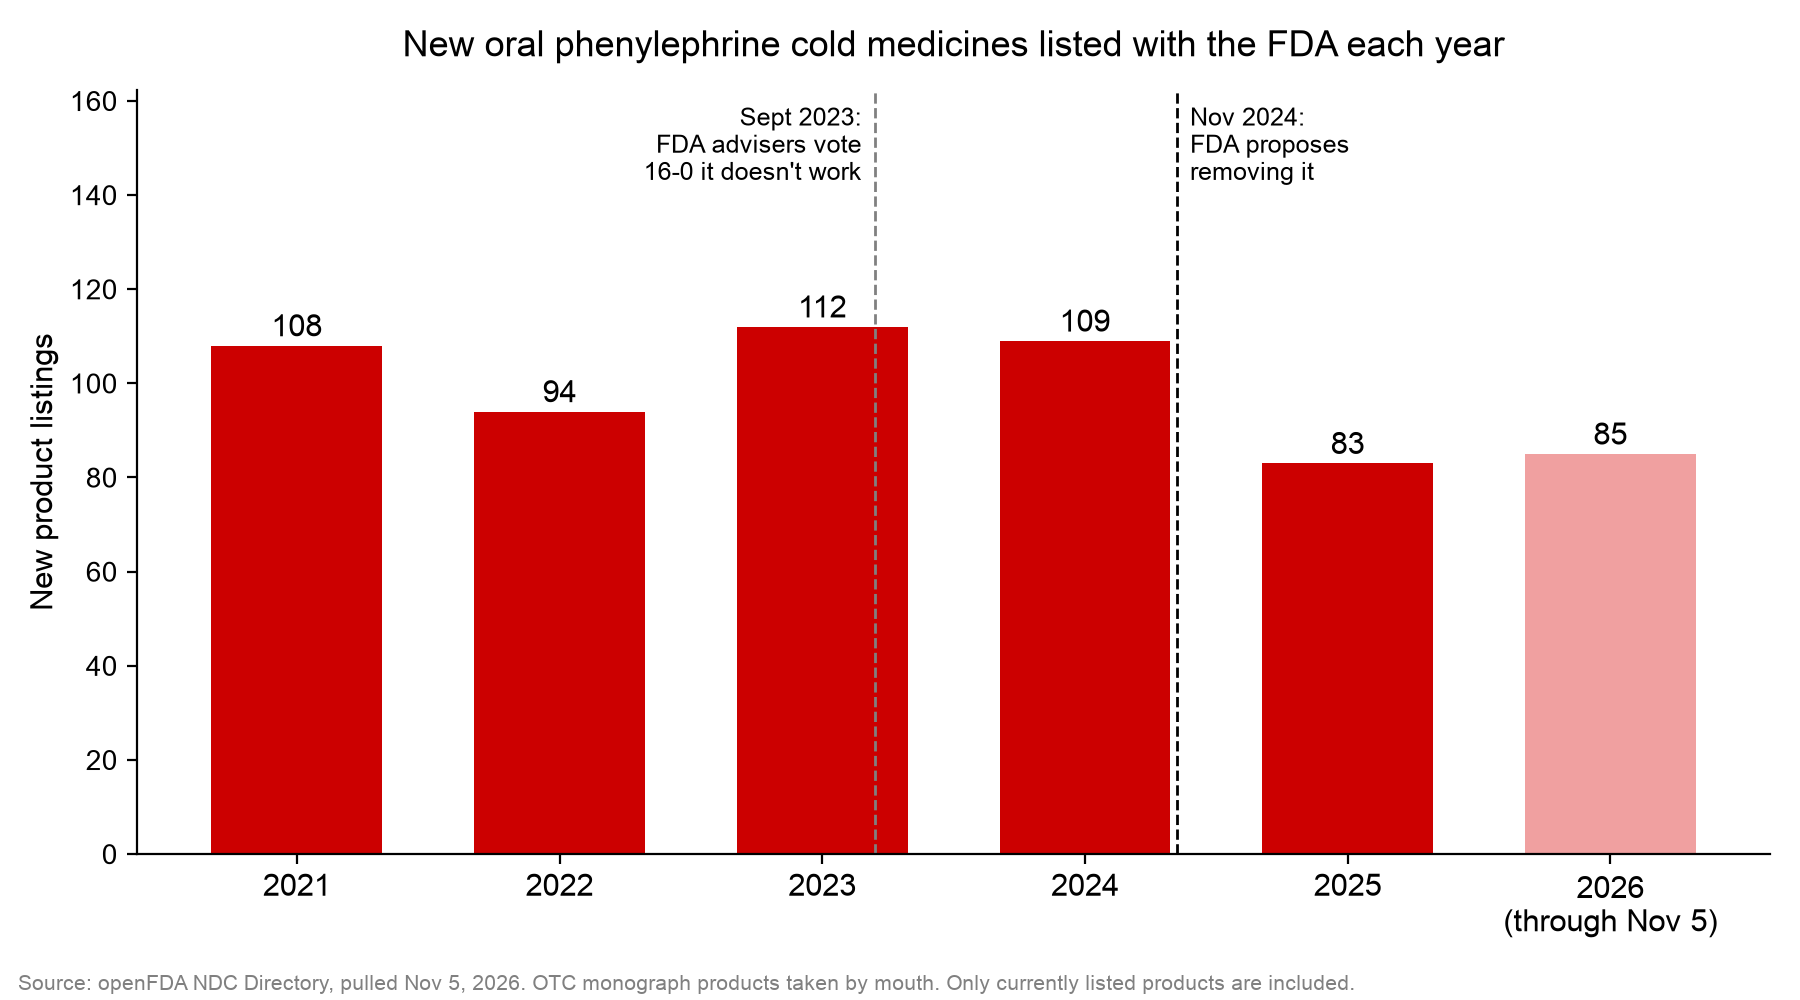
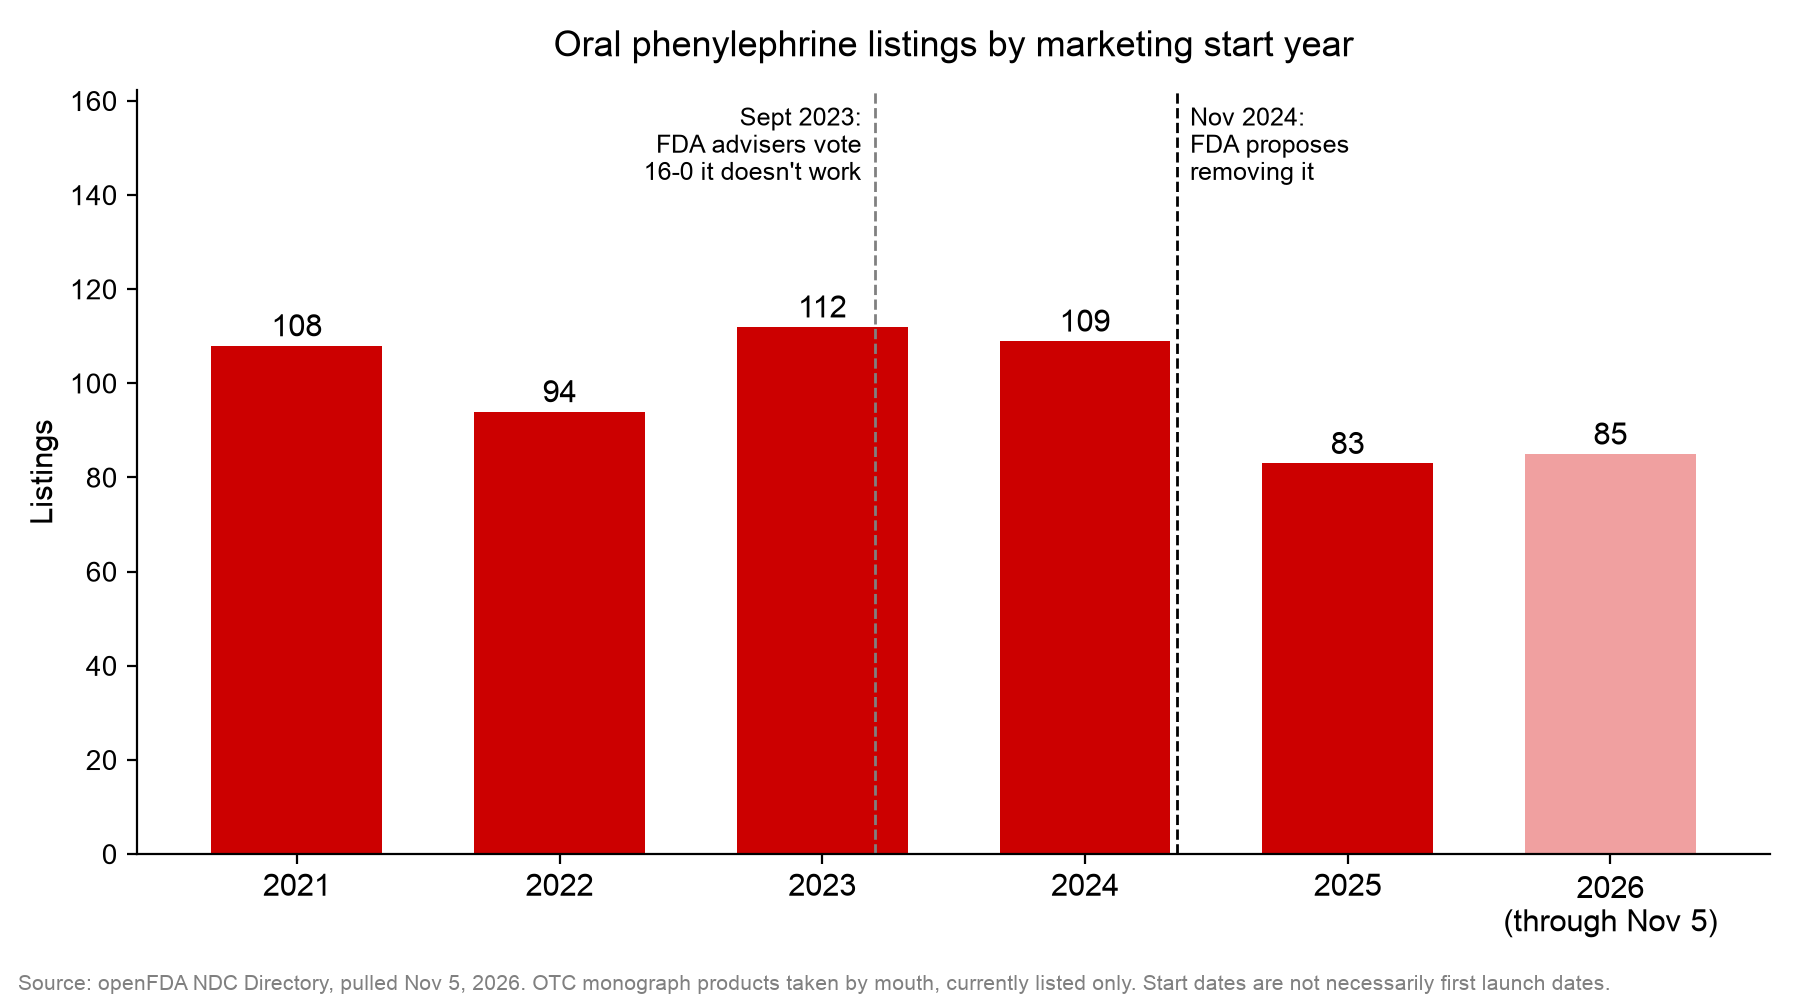
relabel chart and readme as listings by start year

Changed region(s): [[0.2178, 0.031, 0.84, 0.062], [0.5289, 0.961, 0.9022, 0.992], [0.0, 0.341, 0.0311, 0.62]]

diff --git a/04_chart.py b/04_chart.py
@@ -81,16 +81,16 @@ ax.set_xticks(x)
 ax.set_xticklabels(labels, fontsize=11)
 
 ax.set_ylim(0, top * 1.45)
-ax.set_ylabel("New product listings", fontsize=11)
-ax.set_title("New oral phenylephrine cold medicines listed with the FDA each year",
+ax.set_ylabel("Listings", fontsize=11)
+ax.set_title("Oral phenylephrine listings by marketing start year",
              fontsize=13, pad=12)
 
 ax.spines["top"].set_visible(False)
 ax.spines["right"].set_visible(False)
 
 fig.text(0.01, 0.01,
-         "Source: openFDA NDC Directory, pulled Nov 5, 2026. OTC monograph products taken by mouth. "
-         "Only currently listed products are included.",
+         "Source: openFDA NDC Directory, pulled Nov 5, 2026. OTC monograph products taken by mouth, "
+         "currently listed only. Start dates are not necessarily first launch dates.",
          fontsize=7.5, color="gray")
 
 plt.tight_layout(rect=(0, 0.03, 1, 1))

diff --git a/README.md b/README.md
@@ -1,6 +1,6 @@
 # phenylephrine-analysis
 
-How many new phenylephrine cold medicines have been listed with the FDA since the FDA proposed getting rid of it?
+How many oral phenylephrine cold medicine listings in the FDA's drug directory have marketing start dates after the FDA proposed getting rid of it?
 
 I did this for a piece on my Substack, [Supply & State](https://sav1440604.substack.com). It's also me practicing pulling data from an API and cleaning it in Python.
 
@@ -21,7 +21,7 @@ Phenylephrine is the decongestant in most cold medicine sold on the open shelf (
 | Listed after the Sept 12, 2023 vote | 297 |
 | Listed after the Nov 8, 2024 proposal | 175 |
 
-| Year | New listings |
+| Marketing start year | Listings |
 |---|---|
 | 2021 | 108 |
 | 2022 | 94 |
